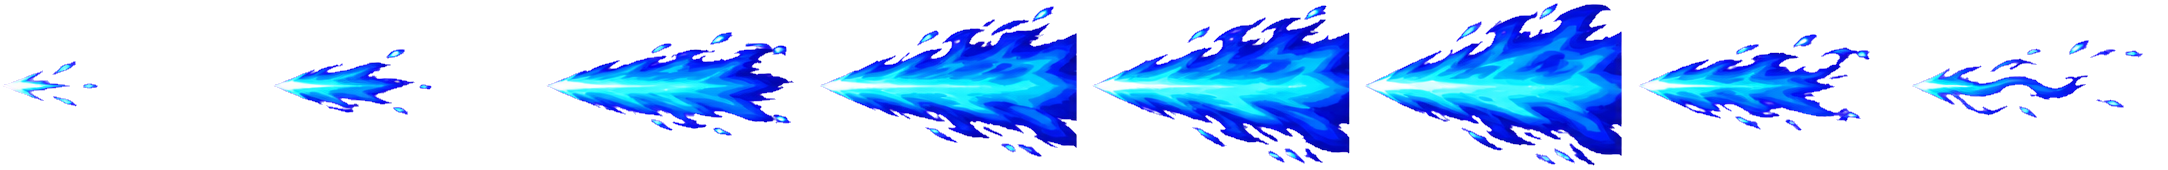
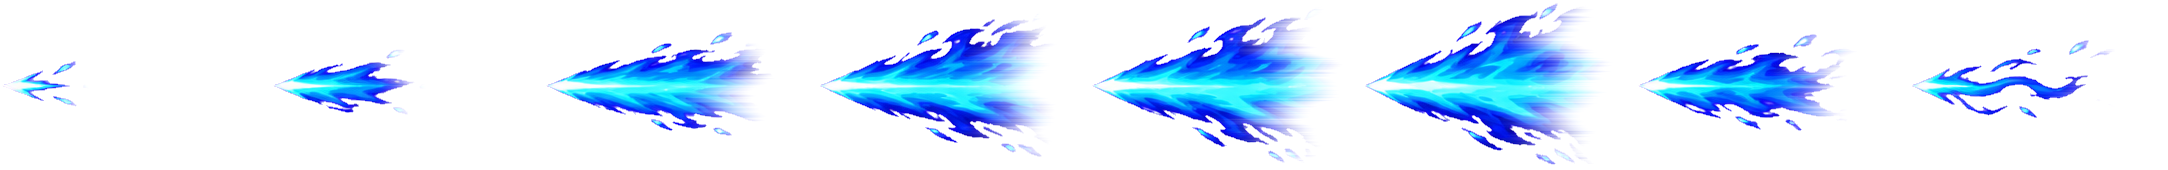
thap: Abyss cầu nước bay LÊN trời rồi mưa khắp đường; lửa Wyrm Engine hết cụt
- Leviathan TIDAL BREATH: bỏ cột tia dọc; 5 cầu nước bắn từ ngọc ụ vọt lên quá mép trên (vòng nhẹ, nhỏ + mờ dần),
  rồi mưa giáo nước rơi tới các điểm đều dọc cả đường, chạm đúng nhịp HU.thoThuy (luật, nhịp trừ máu, VXD giữ nguyên)
- Chữ kỹ năng bỏ "ice dragon / rồng băng" (text.js, skills5.js mo, skilldemo.js, vi.json → ngonngu-vi.js)
- Wyrm Engine: ảnh ChatGPT khung 3–5 chạm mép ô → lửa bị chặt; thap-cat-wyrm2.py làm mờ mũi lửa răng cưa,
  đo lại VUNG_ANH.wyrm2X/Y (mũi = tầm), sinh lại 3 dạng
- GIF TRUOC-SAU-abyss2.gif, TRUOC-SAU-wyrm2.gif; ảnh trận 390x844 / 844x390

Claude-Session: https://claude.ai/code/session_01KQA7LFBkcdkiPiLcwYs7V2

diff --git a/thap/js/ngonngu-vi.js b/thap/js/ngonngu-vi.js
@@ -913,16 +913,16 @@ const VI_MAU = {
 "ABOUT TO OPEN": "SẮP MỞ",
 "ABSOLUTE ZERO": "ĐỘ KHÔNG TUYỆT ĐỐI",
 "ABYSS # · +#% damage": "ABYSS # · +#% sát thương",
-"ABYSS # · +#% damage · devours a small enemy every #s (# px) · bubble splash # px · TAP when full: TIDAL BREATH ×# — an ice dragon breathes along the path": "ABYSS # · +#% sát thương · nuốt 1 quái nhỏ mỗi #s (# px) · bong bóng nổ lan # px · CHẠM khi đầy: HƠI THỞ THUỶ TRIỀU ×# — rồng băng phun dọc đường đi",
+"ABYSS # · +#% damage · devours a small enemy every #s (# px) · bubble splash # px · TAP when full: TIDAL BREATH ×# — water orbs shoot up from the turret and rain down along the whole path": "ABYSS # · +#% sát thương · nuốt 1 quái nhỏ mỗi #s (# px) · bong bóng nổ lan # px · CHẠM khi đầy: HƠI THỞ THUỶ TRIỀU ×# — cầu nước bắn vọt lên trời từ ụ rồi đổ mưa xuống khắp đường đi",
 "ABYSS # · +#% damage · devours a small enemy every #s (# px) · bubble splash # px · TIDAL BREATH unlocks at #★": "ABYSS # · +#% sát thương · nuốt 1 quái nhỏ mỗi #s (# px) · bong bóng nổ lan # px · HƠI THỞ THUỶ TRIỀU mở ở #★",
-"ABYSS # · +#% damage · devours a small enemy every #s (# px, big ones ×#) · bubble splash # px · TAP when full: TIDAL BREATH ×# — an ice dragon breathes along the path": "ABYSS # · +#% sát thương · nuốt 1 quái nhỏ mỗi #s (# px, quái to ×#) · bong bóng nổ lan # px · CHẠM khi đầy: HƠI THỞ THUỶ TRIỀU ×# — rồng băng phun dọc đường đi",
-"ABYSS # · +#% damage · devours a small enemy every #s (# px, big ones ×#, flyers too) · bubble splash # px · TAP when full: TIDAL BREATH ×# — an ice dragon breathes along the path": "ABYSS # · +#% sát thương · nuốt 1 quái nhỏ mỗi #s (# px, quái to ×#, cả quái bay) · bong bóng nổ lan # px · CHẠM khi đầy: HƠI THỞ THUỶ TRIỀU ×# — rồng băng phun dọc đường đi",
+"ABYSS # · +#% damage · devours a small enemy every #s (# px, big ones ×#) · bubble splash # px · TAP when full: TIDAL BREATH ×# — water orbs shoot up from the turret and rain down along the whole path": "ABYSS # · +#% sát thương · nuốt 1 quái nhỏ mỗi #s (# px, quái to ×#) · bong bóng nổ lan # px · CHẠM khi đầy: HƠI THỞ THUỶ TRIỀU ×# — cầu nước bắn vọt lên trời từ ụ rồi đổ mưa xuống khắp đường đi",
+"ABYSS # · +#% damage · devours a small enemy every #s (# px, big ones ×#, flyers too) · bubble splash # px · TAP when full: TIDAL BREATH ×# — water orbs shoot up from the turret and rain down along the whole path": "ABYSS # · +#% sát thương · nuốt 1 quái nhỏ mỗi #s (# px, quái to ×#, cả quái bay) · bong bóng nổ lan # px · CHẠM khi đầy: HƠI THỞ THUỶ TRIỀU ×# — cầu nước bắn vọt lên trời từ ụ rồi đổ mưa xuống khắp đường đi",
 "ABYSS # · +#% damage · devours enemies inside the cyan ring — place it next to the path to eat more": "ABYSS # · +#% sát thương · Nuốt quái trong vòng xanh — đặt sát đường để nuốt nhiều hơn",
 "ABYSS #/# · +#% damage": "ABYSS #/# · +#% sát thương",
-"ABYSS #/# · +#% damage · devours a small enemy every #s (# px) · bubble splash # px · TAP when full: TIDAL BREATH ×# — an ice dragon breathes along the path": "ABYSS #/# · +#% sát thương · nuốt 1 quái nhỏ mỗi #s (# px) · bong bóng nổ lan # px · CHẠM khi đầy: HƠI THỞ THUỶ TRIỀU ×# — rồng băng phun dọc đường đi",
+"ABYSS #/# · +#% damage · devours a small enemy every #s (# px) · bubble splash # px · TAP when full: TIDAL BREATH ×# — water orbs shoot up from the turret and rain down along the whole path": "ABYSS #/# · +#% sát thương · nuốt 1 quái nhỏ mỗi #s (# px) · bong bóng nổ lan # px · CHẠM khi đầy: HƠI THỞ THUỶ TRIỀU ×# — cầu nước bắn vọt lên trời từ ụ rồi đổ mưa xuống khắp đường đi",
 "ABYSS #/# · +#% damage · devours a small enemy every #s (# px) · bubble splash # px · TIDAL BREATH unlocks at #★": "ABYSS #/# · +#% sát thương · nuốt 1 quái nhỏ mỗi #s (# px) · bong bóng nổ lan # px · HƠI THỞ THUỶ TRIỀU mở ở #★",
-"ABYSS #/# · +#% damage · devours a small enemy every #s (# px, big ones ×#) · bubble splash # px · TAP when full: TIDAL BREATH ×# — an ice dragon breathes along the path": "ABYSS #/# · +#% sát thương · nuốt 1 quái nhỏ mỗi #s (# px, quái to ×#) · bong bóng nổ lan # px · CHẠM khi đầy: HƠI THỞ THUỶ TRIỀU ×# — rồng băng phun dọc đường đi",
-"ABYSS #/# · +#% damage · devours a small enemy every #s (# px, big ones ×#, flyers too) · bubble splash # px · TAP when full: TIDAL BREATH ×# — an ice dragon breathes along the path": "ABYSS #/# · +#% sát thương · nuốt 1 quái nhỏ mỗi #s (# px, quái to ×#, cả quái bay) · bong bóng nổ lan # px · CHẠM khi đầy: HƠI THỞ THUỶ TRIỀU ×# — rồng băng phun dọc đường đi",
+"ABYSS #/# · +#% damage · devours a small enemy every #s (# px, big ones ×#) · bubble splash # px · TAP when full: TIDAL BREATH ×# — water orbs shoot up from the turret and rain down along the whole path": "ABYSS #/# · +#% sát thương · nuốt 1 quái nhỏ mỗi #s (# px, quái to ×#) · bong bóng nổ lan # px · CHẠM khi đầy: HƠI THỞ THUỶ TRIỀU ×# — cầu nước bắn vọt lên trời từ ụ rồi đổ mưa xuống khắp đường đi",
+"ABYSS #/# · +#% damage · devours a small enemy every #s (# px, big ones ×#, flyers too) · bubble splash # px · TAP when full: TIDAL BREATH ×# — water orbs shoot up from the turret and rain down along the whole path": "ABYSS #/# · +#% sát thương · nuốt 1 quái nhỏ mỗi #s (# px, quái to ×#, cả quái bay) · bong bóng nổ lan # px · CHẠM khi đầy: HƠI THỞ THUỶ TRIỀU ×# — cầu nước bắn vọt lên trời từ ụ rồi đổ mưa xuống khắp đường đi",
 "ABYSS #/# · +#% damage · devours enemies inside the cyan ring — place it next to the path to eat more": "ABYSS #/# · +#% sát thương · Nuốt quái trong vòng xanh — đặt sát đường để nuốt nhiều hơn",
 "ABYSS LORD": "CHÚA VỰC SÂU",
 "ABYSS LORD: big double-ring bubbles; devours flyers": "CHÚA VỰC SÂU: bong bóng vòng đôi lớn; nuốt cả quái bay",
@@ -954,13 +954,13 @@ const VI_MAU = {
 "Abyss # (+#% dmg) · devours a small enemy every #s (# px) · bubble splash # px · tidal breath unlocks at #★": "Abyss # (+#% ST) · nuốt 1 quái nhỏ mỗi #s (# px) · bong bóng nổ lan # px · hơi thở thuỷ triều mở ở #★",
 "Abyss # (+#% dmg) · devours a small enemy every #s (# px, big ones ×#) · bubble splash # px · tap when full: tidal breath ×# along the path": "Abyss # (+#% ST) · nuốt 1 quái nhỏ mỗi #s (# px, quái to ×#) · bong bóng nổ lan # px · chạm khi đầy: hơi thở thuỷ triều ×# dọc đường đi",
 "Abyss # (+#% dmg) · devours a small enemy every #s (# px, big ones ×#, flyers too) · bubble splash # px · tap when full: tidal breath ×# along the path": "Abyss # (+#% ST) · nuốt 1 quái nhỏ mỗi #s (# px, quái to ×#, cả quái bay) · bong bóng nổ lan # px · chạm khi đầy: hơi thở thuỷ triều ×# dọc đường đi",
-"Abyss # · +#% damage · devours a small enemy every #s (# px) · bubble splash # px · tap when full: tidal breath ×# — an ice dragon breathes along the path": "Abyss # · +#% sát thương · nuốt 1 quái nhỏ mỗi #s (# px) · bong bóng nổ lan # px · chạm khi đầy: hơi thở thuỷ triều ×# — rồng băng phun dọc đường đi",
+"Abyss # · +#% damage · devours a small enemy every #s (# px) · bubble splash # px · tap when full: tidal breath ×# — water orbs shoot up from the turret and rain down along the whole path": "Abyss # · +#% sát thương · nuốt 1 quái nhỏ mỗi #s (# px) · bong bóng nổ lan # px · chạm khi đầy: hơi thở thuỷ triều ×# — cầu nước bắn vọt lên trời từ ụ rồi đổ mưa xuống khắp đường đi",
 "Abyss # · +#% damage · devours a small enemy every #s (# px) · bubble splash # px · tidal breath unlocks at #": "Abyss # · +#% sát thương · nuốt 1 quái nhỏ mỗi #s (# px) · bong bóng nổ lan # px · hơi thở thuỷ triều mở ở #★",
 "Abyss # · +#% damage · devours a small enemy every #s (# px) · bubble splash # px · tidal breath unlocks at #★": "Abyss # · +#% sát thương · nuốt 1 quái nhỏ mỗi #s (# px) · bong bóng nổ lan # px · hơi thở thuỷ triều mở ở #★",
-"Abyss # · +#% damage · devours a small enemy every #s (# px, big ones ×#) · bubble splash # px · tap when full: tidal breath ×# — an ice dragon breathes along the path": "Abyss # · +#% sát thương · nuốt 1 quái nhỏ mỗi #s (# px, quái to ×#) · bong bóng nổ lan # px · chạm khi đầy: hơi thở thuỷ triều ×# — rồng băng phun dọc đường đi",
+"Abyss # · +#% damage · devours a small enemy every #s (# px, big ones ×#) · bubble splash # px · tap when full: tidal breath ×# — water orbs shoot up from the turret and rain down along the whole path": "Abyss # · +#% sát thương · nuốt 1 quái nhỏ mỗi #s (# px, quái to ×#) · bong bóng nổ lan # px · chạm khi đầy: hơi thở thuỷ triều ×# — cầu nước bắn vọt lên trời từ ụ rồi đổ mưa xuống khắp đường đi",
 "Abyss # · +#% damage · devours a small enemy every #s (# px, big ones ×#) · bubble splash # px · tidal breath unlocks at #": "Abyss # · +#% sát thương · nuốt 1 quái nhỏ mỗi #s (# px, quái to ×#) · bong bóng nổ lan # px · hơi thở thuỷ triều mở ở #★",
 "Abyss # · +#% damage · devours a small enemy every #s (# px, big ones ×#) · bubble splash # px · tidal breath unlocks at #★": "Abyss # · +#% sát thương · nuốt 1 quái nhỏ mỗi #s (# px, quái to ×#) · bong bóng nổ lan # px · hơi thở thuỷ triều mở ở #★",
-"Abyss # · +#% damage · devours a small enemy every #s (# px, big ones ×#, flyers too) · bubble splash # px · tap when full: tidal breath ×# — an ice dragon breathes along the path": "Abyss # · +#% sát thương · nuốt 1 quái nhỏ mỗi #s (# px, quái to ×#, cả quái bay) · bong bóng nổ lan # px · chạm khi đầy: hơi thở thuỷ triều ×# — rồng băng phun dọc đường đi",
+"Abyss # · +#% damage · devours a small enemy every #s (# px, big ones ×#, flyers too) · bubble splash # px · tap when full: tidal breath ×# — water orbs shoot up from the turret and rain down along the whole path": "Abyss # · +#% sát thương · nuốt 1 quái nhỏ mỗi #s (# px, quái to ×#, cả quái bay) · bong bóng nổ lan # px · chạm khi đầy: hơi thở thuỷ triều ×# — cầu nước bắn vọt lên trời từ ụ rồi đổ mưa xuống khắp đường đi",
 "Abyss # · +#% damage · devours a small enemy every #s (# px, big ones ×#, flyers too) · bubble splash # px · tidal breath unlocks at #": "Abyss # · +#% sát thương · nuốt 1 quái nhỏ mỗi #s (# px, quái to ×#, cả quái bay) · bong bóng nổ lan # px · hơi thở thuỷ triều mở ở #★",
 "Abyss # · +#% damage · devours a small enemy every #s (# px, big ones ×#, flyers too) · bubble splash # px · tidal breath unlocks at #★": "Abyss # · +#% sát thương · nuốt 1 quái nhỏ mỗi #s (# px, quái to ×#, cả quái bay) · bong bóng nổ lan # px · hơi thở thuỷ triều mở ở #★",
 "Abyss #/# (+#% dmg)": "Abyss #/# (+#% ST)",
@@ -968,13 +968,13 @@ const VI_MAU = {
 "Abyss #/# (+#% dmg) · devours a small enemy every #s (# px) · bubble splash # px · tidal breath unlocks at #★": "Abyss #/# (+#% ST) · nuốt 1 quái nhỏ mỗi #s (# px) · bong bóng nổ lan # px · hơi thở thuỷ triều mở ở #★",
 "Abyss #/# (+#% dmg) · devours a small enemy every #s (# px, big ones ×#) · bubble splash # px · tap when full: tidal breath ×# along the path": "Abyss #/# (+#% ST) · nuốt 1 quái nhỏ mỗi #s (# px, quái to ×#) · bong bóng nổ lan # px · chạm khi đầy: hơi thở thuỷ triều ×# dọc đường đi",
 "Abyss #/# (+#% dmg) · devours a small enemy every #s (# px, big ones ×#, flyers too) · bubble splash # px · tap when full: tidal breath ×# along the path": "Abyss #/# (+#% ST) · nuốt 1 quái nhỏ mỗi #s (# px, quái to ×#, cả quái bay) · bong bóng nổ lan # px · chạm khi đầy: hơi thở thuỷ triều ×# dọc đường đi",
-"Abyss #/# · +#% damage · devours a small enemy every #s (# px) · bubble splash # px · tap when full: tidal breath ×# — an ice dragon breathes along the path": "Abyss #/# · +#% sát thương · nuốt 1 quái nhỏ mỗi #s (# px) · bong bóng nổ lan # px · chạm khi đầy: hơi thở thuỷ triều ×# — rồng băng phun dọc đường đi",
+"Abyss #/# · +#% damage · devours a small enemy every #s (# px) · bubble splash # px · tap when full: tidal breath ×# — water orbs shoot up from the turret and rain down along the whole path": "Abyss #/# · +#% sát thương · nuốt 1 quái nhỏ mỗi #s (# px) · bong bóng nổ lan # px · chạm khi đầy: hơi thở thuỷ triều ×# — cầu nước bắn vọt lên trời từ ụ rồi đổ mưa xuống khắp đường đi",
 "Abyss #/# · +#% damage · devours a small enemy every #s (# px) · bubble splash # px · tidal breath unlocks at #": "Abyss #/# · +#% sát thương · nuốt 1 quái nhỏ mỗi #s (# px) · bong bóng nổ lan # px · hơi thở thuỷ triều mở ở #★",
 "Abyss #/# · +#% damage · devours a small enemy every #s (# px) · bubble splash # px · tidal breath unlocks at #★": "Abyss #/# · +#% sát thương · nuốt 1 quái nhỏ mỗi #s (# px) · bong bóng nổ lan # px · hơi thở thuỷ triều mở ở #★",
-"Abyss #/# · +#% damage · devours a small enemy every #s (# px, big ones ×#) · bubble splash # px · tap when full: tidal breath ×# — an ice dragon breathes along the path": "Abyss #/# · +#% sát thương · nuốt 1 quái nhỏ mỗi #s (# px, quái to ×#) · bong bóng nổ lan # px · chạm khi đầy: hơi thở thuỷ triều ×# — rồng băng phun dọc đường đi",
+"Abyss #/# · +#% damage · devours a small enemy every #s (# px, big ones ×#) · bubble splash # px · tap when full: tidal breath ×# — water orbs shoot up from the turret and rain down along the whole path": "Abyss #/# · +#% sát thương · nuốt 1 quái nhỏ mỗi #s (# px, quái to ×#) · bong bóng nổ lan # px · chạm khi đầy: hơi thở thuỷ triều ×# — cầu nước bắn vọt lên trời từ ụ rồi đổ mưa xuống khắp đường đi",
 "Abyss #/# · +#% damage · devours a small enemy every #s (# px, big ones ×#) · bubble splash # px · tidal breath unlocks at #": "Abyss #/# · +#% sát thương · nuốt 1 quái nhỏ mỗi #s (# px, quái to ×#) · bong bóng nổ lan # px · hơi thở thuỷ triều mở ở #★",
 "Abyss #/# · +#% damage · devours a small enemy every #s (# px, big ones ×#) · bubble splash # px · tidal breath unlocks at #★": "Abyss #/# · +#% sát thương · nuốt 1 quái nhỏ mỗi #s (# px, quái to ×#) · bong bóng nổ lan # px · hơi thở thuỷ triều mở ở #★",
-"Abyss #/# · +#% damage · devours a small enemy every #s (# px, big ones ×#, flyers too) · bubble splash # px · tap when full: tidal breath ×# — an ice dragon breathes along the path": "Abyss #/# · +#% sát thương · nuốt 1 quái nhỏ mỗi #s (# px, quái to ×#, cả quái bay) · bong bóng nổ lan # px · chạm khi đầy: hơi thở thuỷ triều ×# — rồng băng phun dọc đường đi",
+"Abyss #/# · +#% damage · devours a small enemy every #s (# px, big ones ×#, flyers too) · bubble splash # px · tap when full: tidal breath ×# — water orbs shoot up from the turret and rain down along the whole path": "Abyss #/# · +#% sát thương · nuốt 1 quái nhỏ mỗi #s (# px, quái to ×#, cả quái bay) · bong bóng nổ lan # px · chạm khi đầy: hơi thở thuỷ triều ×# — cầu nước bắn vọt lên trời từ ụ rồi đổ mưa xuống khắp đường đi",
 "Abyss #/# · +#% damage · devours a small enemy every #s (# px, big ones ×#, flyers too) · bubble splash # px · tidal breath unlocks at #": "Abyss #/# · +#% sát thương · nuốt 1 quái nhỏ mỗi #s (# px, quái to ×#, cả quái bay) · bong bóng nổ lan # px · hơi thở thuỷ triều mở ở #★",
 "Abyss #/# · +#% damage · devours a small enemy every #s (# px, big ones ×#, flyers too) · bubble splash # px · tidal breath unlocks at #★": "Abyss #/# · +#% sát thương · nuốt 1 quái nhỏ mỗi #s (# px, quái to ×#, cả quái bay) · bong bóng nổ lan # px · hơi thở thuỷ triều mở ở #★",
 "Ace shots pierce # enemy": "Phát Ace xuyên # quái",
@@ -1487,12 +1487,12 @@ const VI_MAU = {
 "Details ›": "Chi tiết ›",
 "Devours a small enemy": "Nuốt một quái nhỏ",
 "Devours big enemies (×# stacks) — starts at #★": "Nuốt quái to (×# cộng dồn) — từ #★",
-"Devours enemies for ABYSS points (shared by all your Leviathans) — whirlpool tag under the cell, +#% damage each (max #). Active (#★+): TIDAL BREATH — an ice dragon head drops from the sky and breathes along the path": "Nuốt quái để tích điểm ABYSS (mọi Thuỷ Quái của bạn dùng chung) — tấm xoáy nước ở đáy ô, mỗi điểm +#% sát thương (tối đa #). Chủ động (#★+): HƠI THỞ THUỶ TRIỀU — đầu rồng băng từ trên trời rơi xuống, phun băng dọc đường đi",
-"Devours enemies for ABYSS points (shared by all your Leviathans) — whirlpool tag under the cell, +#% damage each (no cap). Active (#★+): TIDAL BREATH — an ice dragon head drops from the sky and breathes along the path": "Nuốt quái để tích điểm ABYSS (mọi Thuỷ Quái của bạn dùng chung) — tấm xoáy nước ở đáy ô, mỗi điểm +#% sát thương (không trần). Chủ động (#★+): HƠI THỞ THUỶ TRIỀU — đầu rồng băng từ trên trời rơi xuống, phun băng dọc đường đi",
-"Devours enemies for ABYSS points — whirlpool tag under the cell, +#% damage each (max #). Active (#★+): TIDAL BREATH — an ice dragon head drops from the sky and breathes along the path": "Nuốt quái để tích điểm ABYSS — tấm xoáy nước ở đáy ô, mỗi điểm +#% sát thương (tối đa #). Chủ động (#★+): HƠI THỞ THUỶ TRIỀU — đầu rồng băng từ trên trời rơi xuống, phun băng dọc đường đi",
-"Devours enemies for ABYSS points — whirlpool tag under the cell, +#% damage each (no cap). Active (#★+): TIDAL BREATH — an ice dragon head drops from the sky and breathes along the path": "Nuốt quái để tích điểm ABYSS — tấm xoáy nước ở đáy ô, mỗi điểm +#% sát thương (không trần). Chủ động (#★+): HƠI THỞ THUỶ TRIỀU — đầu rồng băng từ trên trời rơi xuống, phun băng dọc đường đi",
-"Devours enemies for abyss points (shared by all your Leviathans) — whirlpool tag under the cell, +#% damage each (max #). Active (#★+): tidal breath — an ice dragon head drops from the sky and breathes along the path.": "Nuốt quái để tích điểm ABYSS (mọi Thuỷ Quái của bạn dùng chung) — tấm xoáy nước ở đáy ô, mỗi điểm +#% sát thương (tối đa #). Chủ động (#★+): hơi thở thuỷ triều — đầu rồng băng từ trên trời rơi xuống, phun băng dọc đường đi.",
-"Devours enemies for abyss points (shared by all your Leviathans) — whirlpool tag under the cell, +#% damage each (no cap). Active (#★+): tidal breath — an ice dragon head drops from the sky and breathes along the path.": "Nuốt quái để tích điểm ABYSS (mọi Thuỷ Quái của bạn dùng chung) — tấm xoáy nước ở đáy ô, mỗi điểm +#% sát thương (không trần). Chủ động (#★+): hơi thở thuỷ triều — đầu rồng băng từ trên trời rơi xuống, phun băng dọc đường đi.",
+"Devours enemies for ABYSS points (shared by all your Leviathans) — whirlpool tag under the cell, +#% damage each (max #). Active (#★+): TIDAL BREATH — water orbs shoot up from the turret and rain down along the whole path": "Nuốt quái để tích điểm ABYSS (mọi Thuỷ Quái của bạn dùng chung) — tấm xoáy nước ở đáy ô, mỗi điểm +#% sát thương (tối đa #). Chủ động (#★+): HƠI THỞ THUỶ TRIỀU — cầu nước bắn vọt lên trời từ ụ rồi đổ mưa xuống khắp đường đi",
+"Devours enemies for ABYSS points (shared by all your Leviathans) — whirlpool tag under the cell, +#% damage each (no cap). Active (#★+): TIDAL BREATH — water orbs shoot up from the turret and rain down along the whole path": "Nuốt quái để tích điểm ABYSS (mọi Thuỷ Quái của bạn dùng chung) — tấm xoáy nước ở đáy ô, mỗi điểm +#% sát thương (không trần). Chủ động (#★+): HƠI THỞ THUỶ TRIỀU — cầu nước bắn vọt lên trời từ ụ rồi đổ mưa xuống khắp đường đi",
+"Devours enemies for ABYSS points — whirlpool tag under the cell, +#% damage each (max #). Active (#★+): TIDAL BREATH — water orbs shoot up from the turret and rain down along the whole path": "Nuốt quái để tích điểm ABYSS — tấm xoáy nước ở đáy ô, mỗi điểm +#% sát thương (tối đa #). Chủ động (#★+): HƠI THỞ THUỶ TRIỀU — cầu nước bắn vọt lên trời từ ụ rồi đổ mưa xuống khắp đường đi",
+"Devours enemies for ABYSS points — whirlpool tag under the cell, +#% damage each (no cap). Active (#★+): TIDAL BREATH — water orbs shoot up from the turret and rain down along the whole path": "Nuốt quái để tích điểm ABYSS — tấm xoáy nước ở đáy ô, mỗi điểm +#% sát thương (không trần). Chủ động (#★+): HƠI THỞ THUỶ TRIỀU — cầu nước bắn vọt lên trời từ ụ rồi đổ mưa xuống khắp đường đi",
+"Devours enemies for abyss points (shared by all your Leviathans) — whirlpool tag under the cell, +#% damage each (max #). Active (#★+): tidal breath — water orbs shoot up from the turret and rain down along the whole path.": "Nuốt quái để tích điểm ABYSS (mọi Thuỷ Quái của bạn dùng chung) — tấm xoáy nước ở đáy ô, mỗi điểm +#% sát thương (tối đa #). Chủ động (#★+): hơi thở thuỷ triều — cầu nước bắn vọt lên trời từ ụ rồi đổ mưa xuống khắp đường đi.",
+"Devours enemies for abyss points (shared by all your Leviathans) — whirlpool tag under the cell, +#% damage each (no cap). Active (#★+): tidal breath — water orbs shoot up from the turret and rain down along the whole path.": "Nuốt quái để tích điểm ABYSS (mọi Thuỷ Quái của bạn dùng chung) — tấm xoáy nước ở đáy ô, mỗi điểm +#% sát thương (không trần). Chủ động (#★+): hơi thở thuỷ triều — cầu nước bắn vọt lên trời từ ụ rồi đổ mưa xuống khắp đường đi.",
 "Devours enemies for damage stacks (max #). Active (#★+): TIDAL BREATH sweeps the path": "Nuốt quái để cộng dồn ST (tối đa #). Chủ động (#★+): HƠI THỞ THUỶ TRIỀU quét đường đi",
 "Devours enemies for damage stacks (max #). Active (#★+): tidal breath sweeps the path.": "Nuốt quái để cộng dồn ST (tối đa #). Chủ động (#★+): hơi thở thuỷ triều quét đường đi.",
 "Devours enemies for damage stacks (no cap). Active (#★+): TIDAL BREATH sweeps the path": "Nuốt quái để cộng dồn ST (không trần). Chủ động (#★+): HƠI THỞ THUỶ TRIỀU quét đường đi",
@@ -2983,13 +2983,13 @@ const VI_MAU = {
 "Tap your COMMANDER": "Chạm CHỈ HUY của bạn",
 "Tap ‹ again to leave the room.": "Chạm ‹ lần nữa để rời phòng.",
 "Tap: dragon dives the path": "Chạm: rồng bổ nhào dọc đường đi",
-"Tap: ice dragon breath": "Chạm: rồng băng phun",
 "Tap: rewind pushes enemies back": "Chạm: tua ngược đẩy lùi quái",
 "Tap: summons new turrets": "Chạm: triệu hồi ụ mới",
 "Tap: team barrier #s": "Chạm: rào chắn cả đội #s",
 "Tap: team barrier, boss skill weakened": "Chạm: rào chắn cả đội, kỹ năng trùm suy yếu",
 "Tap: the swarm dives in": "Chạm: bầy drone lao vào",
 "Tap: tidal breath sweeps": "Chạm: hơi thở thủy triều quét qua",
+"Tap: water orbs rain on the path": "Chạm: mưa cầu nước xuống đường",
 "Target": "Mục tiêu",
 "Target +#★, keeps its type": "Mục tiêu +#★, giữ nguyên loại",
 "Target gets +#★, keeps type": "Mục tiêu +#★, giữ nguyên loại",
@@ -3195,7 +3195,6 @@ const VI_MAU = {
 "aims toward its arrow, shells pierce the line, blast # px": "ngắm theo mũi tên, đạn xuyên cả đường thẳng, nổ lan # px",
 "also on stone (stays stone)": "cả lên đá (vẫn là đá)",
 "also saves # leak)": "còn chặn # quái lọt)",
-"an ice dragon breathes along the path": "một con rồng băng phun hơi thở dọc đường đi",
 "arrow + number: same-arrow merges add up": "mũi tên + số: ghép cùng hướng cộng dồn",
 "at #: # homing foxfires ×#": "khi đủ #: # hồ hỏa đuổi ×#",
 "auto-fires if left full)": "tự kích nếu để đầy)",
@@ -3520,6 +3519,7 @@ const VI_MAU = {
 "very fast stream": "dòng đạn rất nhanh",
 "wall every #s": "tường mỗi #s",
 "walls block the path and explode; merge raises a GOLDEN wall": "tường chắn đường đi rồi nổ; ghép dựng tường VÀNG",
+"water orbs shoot up from the turret and rain down along the whole path": "cầu nước bắn vọt lên trời từ ụ rồi đổ mưa xuống khắp đường đi",
 "while it has drones: N/E/S/W neighbours +#% fire rate": "khi còn drone: ụ kề trên/dưới/trái/phải +#% tốc bắn",
 "with lives left. Your wave and best record are saved.": "khi còn mạng. Đợt và kỷ lục của bạn đã được lưu.",
 "works on stone/frozen turrets too": "dùng được cả với ụ đá/bị đóng băng",

diff --git a/thap/js/sigfx.js b/thap/js/sigfx.js
@@ -23,7 +23,7 @@ const SIG = {
       const ma = this.MA[id]; if (!ma || this.daNap.has(id)) continue;
       this.daNap.add(id);
       for (const k in SIG_META) if (k.startsWith('sig_' + ma + '_')) REN.img(k);
-      if (id === 'leviathan') for (const k of ['fx_leviathan_tia', 'fx_leviathan_dan', 'fx_leviathan_trung']) REN.img(k); // TIDAL BREATH mưa nước (bỏ đầu rồng lev_rong)
+      if (id === 'leviathan') for (const k of ['fx_leviathan_dan', 'fx_leviathan_trung']) REN.img(k); // TIDAL BREATH: cầu nước bay lên + mưa nước (bỏ đầu rồng lev_rong, bỏ cột tia)
       if (id === 'marionette') for (const k of this.ROI) REN.img(k);
       if (id === 'ronglua') for (const k of ['wyrm_rong', 'fx_wyrm_lua2', 'fx_wyrm_lua2_2', 'fx_wyrm_lua2_3', 'fx_wyrm_lua', 'fx_ronglua_trung']) REN.img(k);
     }
@@ -112,7 +112,7 @@ if (typeof SIG_META !== 'undefined') Object.assign(SIG_META, { fx_leviathan_tia:
 if (typeof SIG_META !== 'undefined') SIG_META.fx_wyrm_lua = [16, 300, 150];
 // luồng lửa Wyrm MỚI (07/11 19:05): 8 khung ChatGPT, nòng ở mép trái giữa khung (tools/thap-cat-wyrm2.py in số đo dưới)
 if (typeof SIG_META !== 'undefined') Object.assign(SIG_META, { fx_wyrm_lua2: [8, 271, 170], fx_wyrm_lua2_2: [8, 271, 170], fx_wyrm_lua2_3: [8, 271, 170] });
-if (typeof VUNG_ANH !== 'undefined') Object.assign(VUNG_ANH, { wyrm2X: 0.98, wyrm2Y: 0.755 }); // dải 16 khung luồng lửa Wyrm (raw_fx_wyrm_lua.png, 4×4 → 1 hàng; tools/thap-cat-wyrm.py)
+if (typeof VUNG_ANH !== 'undefined') Object.assign(VUNG_ANH, { wyrm2X: 0.801, wyrm2Y: 0.645 }); // dải 16 khung luồng lửa Wyrm (raw_fx_wyrm_lua.png, 4×4 → 1 hàng; tools/thap-cat-wyrm.py)
 SIG.PHAT = {
   roi(o) { // Marionette gắn dây rối
     const phu = this.ds.some(m => m.k === 'roi' && m.o.T === o.T && m.t < 1); // 7★ con rối thứ 2: tay nhỏ hơn
@@ -359,20 +359,24 @@ SIG.K = {
       if (m.tHet != null && m.x != null) { const fc = this.f(m.t - m.tHet, 0, 0.5, 5); if (fc >= 0) this.k(ctx, 'sig_m09_crest', fc, m.x, m.y, 80, { a: this.mo(m.t - m.tHet, 0, 0.5, 0.04, 0.15) }); }
     },
   },
-  // M07 LEVIATHAN — TIDAL BREATH (user 07/11 19:05: bỏ đầu rồng): cột nước + quả cầu nước bắn THẲNG LÊN TRỜI từ ngọc ụ →
-  //   mưa giáo nước rơi xuống ĐỀU dọc CẢ đường (mỗi ~24 px một giọt, nằm đúng trên đường) → mỗi giọt chạm đất ĐÚNG nhịp HU.thoThuy
-  //   trừ máu chỗ đó: nhịp 0.1 s, quái cách đầu sóng ≤ 70 px (+0.3×cỡ) bị trúng → giọt ở s chạm đất ở nhịp đầu tiên có đầu sóng ≤ s + 85.
-  //   Ảnh ChatGPT sẵn có: fx_leviathan_tia (cột nước), fx_leviathan_dan (cầu/giáo nước), fx_leviathan_trung (vương miện bắn toé).
-  //   Code chỉ đặt vị trí / xoay / phóng / mờ. Không đổi luật: thời điểm + vùng trúng vẫn do HU.thoThuy (skills5.js).
+  // M07 LEVIATHAN — TIDAL BREATH (user 07/11 20:11: "trông như tia bắn TỪ TRÊN XUỐNG"; muốn: từ ụ bắn giọt/cầu nước LÊN trời — thấy bay vọt
+  //   lên khỏi ụ — rồi rơi xuống khắp đường). KHÔNG còn cột tia dọc.
+  //   pha 1 (0 → ~0.6 s): 5 cầu nước (fx_leviathan_dan, đầu cầu hướng theo đà bay) lần lượt bắn từ ngọc ụ, bay vòng nhẹ ra 2 bên, lên
+  //     thẳng khỏi mép trên; càng cao càng nhỏ + mờ; loé toé nhỏ ở ngọc lúc bắn.
+  //   pha 2: mưa giáo nước rơi từ trên xuống các điểm ĐỀU dọc CẢ đường (~24 px/giọt, nằm đúng trên đường); thời gian rơi + độ cao + cỡ
+  //     lệch nhau cố định theo giọt (đọc thành mưa), mỗi giọt chạm đất ĐÚNG nhịp HU.thoThuy trừ máu chỗ đó → vương miện toé (fx_leviathan_trung).
+  //     Nhịp 0.1 s, quái cách đầu sóng ≤ 70 px (+0.3×cỡ) bị trúng → giọt ở s chạm đất ở nhịp đầu tiên có đầu sóng ≤ s + 85.
+  //     Đầu sóng xuất phát từ LÕI ngay o.t ≈ 0 → các giọt sát lõi buộc phải chạm sớm (cùng lúc cầu đang bay lên); phần còn lại của đường
+  //     rơi sau nhịp nghỉ. Code chỉ đặt vị trí / xoay / phóng / mờ. Không đổi luật: thời điểm + vùng trúng vẫn do HU.thoThuy (skills5.js).
   tho: {
     cap(m) {
       const o = m.o; if (!m.p) m.p = o.p;
       if (m.tHet == null) { if (this.conHu(o)) m.ot = o.t; else m.tHet = m.t; }
-      return m.tHet != null && m.t - m.tHet > 0.5;
+      return m.tHet != null && m.t - m.tHet > 0.6;
     },
     ve(ctx, m) {
       const o = m.o, P = m.p, c = this.o(m.T); if (!P || m.ot == null) return;
-      if (m.gx == null && c) { m.gx = c.x; m.gy = c.y - 4; }
+      if (m.gx == null && c) { m.gx = c.x; m.gy = c.y - 6; }
       if (m.gx == null) return;
       const song = o.song, tg = m.tHet == null ? m.ot : m.ot + (m.t - m.tHet), gon = typeof CG !== 'undefined' && CG.gon();
       if (!m.giot) { // giọt đều dọc đường, toạ độ = điểm trên đường; tl = lúc chạm đất = nhịp trừ máu của quái đứng ở đó
@@ -381,25 +385,30 @@ SIG.K = {
           const s = P.len - (k + 0.5) * st, [x, y, g] = viTri(P, s), l = ((k * 7) % 5 - 2) * 1.6; // lệch ngang ≤ 3 px (cố định, không random)
           // nhịp k ở o.t ≈ 1/60 + 0.1k; quái trúng khi đầu sóng ≤ s + 70 + 0.3×cỡ quái (≈ 85 px với quái thường)
           const tl = 1 / 60 + 0.1 * Math.max(0, Math.ceil((song * (1 - (s + 85) / P.len) - 1 / 60) / 0.1 - 1e-6));
-          m.giot.push({ x: x - Math.sin(g) * l, y: y + Math.cos(g) * l, tl });
+          const r = (k * 37 % 11) / 10; // 0..1 cố định theo giọt: thời gian rơi / độ cao / cỡ khác nhau → đọc thành mưa
+          m.giot.push({ x: x - Math.sin(g) * l, y: y + Math.cos(g) * l, tl, fall: 0.2 + 0.1 * r, cao: 170 + 70 * r, w: 30 + 8 * ((k * 5) % 3) / 2, nghieng: ((k * 3) % 5 - 2) * 0.05 });
         }
       }
-      // 1) cột nước + cầu nước bắn lên trời (0 → 0.12 s vươn, giữ, tắt dần tới 0.55 s)
-      const top = -30, Lc = (m.gy - top) * this.eo(tg / 0.12), aC = tg < 0.55 ? Math.min(1, (0.55 - tg) / 0.2) : 0;
-      if (aC > 0.01 && Lc > 4) {
-        this.k(ctx, 'fx_leviathan_tia', 0, m.gx, m.gy, Lc, { g: -Math.PI / 2, ax: 0, h: 20 * (0.8 + 0.2 * Math.sin(this.t * 40)), a: aC * 0.95, add: true });
-        if (tg < 0.18) this.k(ctx, 'fx_leviathan_dan', 0, m.gx, m.gy - Lc, 34, { g: -Math.PI / 2, ax: 0.75, a: 1 });
-        this.k(ctx, 'fx_leviathan_trung', 0, m.gx, m.gy, 40 * (0.8 + 0.3 * this.eo(tg / 0.2)), { a: aC * 0.7, add: true });
+      // 1) cầu nước bắn LÊN trời từ ngọc ụ: 5 quả lệch nhịp 0.05 s, mỗi quả bay 0.42 s từ ngọc tới quá mép trên (y = −40)
+      const NQ = gon ? 3 : 5, BAY = 0.42, D = m.gy + 40;
+      for (let i = 0; i < NQ; i++) {
+        const t0 = i * 0.05, u = (tg - t0) / BAY; if (u < 0 || u >= 1) continue;
+        const ben = (i % 2 ? 1 : -1) * (0.6 + 0.4 * ((i * 3) % 4) / 3) * (i === 0 ? 0 : 1); // quả đầu thẳng lên, các quả sau toả 2 bên
+        const v = u * (0.55 + 0.45 * u); // bật ra nhanh rồi vẫn vọt tiếp lên (không dừng giữa trời)
+        const x = m.gx + ben * (26 * u + 34 * u * u), y = m.gy - D * v;
+        const vx = ben * (26 + 68 * u), vy = -D * (0.55 + 0.9 * u), g = Math.atan2(vy, vx);
+        const w = 46 * (1 - 0.5 * u), a = Math.min(1, u * 8) * (1 - 0.55 * u);
+        this.k(ctx, 'fx_leviathan_dan', 0, x, y, w, { g, ax: 0.72, a });
       }
-      // 2) mưa giáo nước: rơi 0.24 s (nhanh dần) → chạm đường đúng tl → vương miện toé 0.32 s
-      const FALL = 0.24, CAO = 150;
+      if (tg < 0.3) { const v = tg / 0.3; this.k(ctx, 'fx_leviathan_trung', 0, m.gx, m.gy + 4, 40 * (0.7 + 0.5 * v), { ay: 0.78, a: 0.8 * (1 - v * v), add: true }); } // toé nhỏ ở ngọc lúc bắn
+      // 2) mưa giáo nước: rơi nhanh dần từ trên cao → chạm đường đúng tl → vương miện toé 0.32 s
       m.giot.forEach((d, i) => {
         if (gon && i % 2) return;
         if (m.tHet != null && d.tl > m.ot + 0.001) return; // ụ mất giữa chừng → không còn giọt mới
-        const t0 = Math.max(d.tl - FALL, Math.min(0.1, d.tl - 0.05));
+        const t0 = Math.max(d.tl - d.fall, Math.min(0.12, d.tl - 0.05)); // giọt sát lõi (tl sớm): rơi ngắn nhưng vẫn chạm đúng nhịp
         if (tg >= t0 && tg < d.tl) {
-          const u = (tg - t0) / (d.tl - t0), e = u * u;
-          this.k(ctx, 'fx_leviathan_dan', 0, d.x, d.y - CAO * (1 - e), 34, { g: Math.PI / 2, ax: 0.8, a: Math.min(1, u * 4) });
+          const u = (tg - t0) / (d.tl - t0), e = u * u, h = d.cao * (d.tl - t0) / d.fall * (1 - e);
+          this.k(ctx, 'fx_leviathan_dan', 0, d.x + Math.sin(d.nghieng) * h, d.y - h, d.w, { g: Math.PI / 2 - d.nghieng, ax: 0.8, a: Math.min(1, u * 5) });
         } else if (tg >= d.tl && tg < d.tl + 0.32) {
           const v = (tg - d.tl) / 0.32;
           this.k(ctx, 'fx_leviathan_trung', 0, d.x, d.y, 34 * (0.7 + 0.5 * v), { ay: 0.78, a: 1 - v * v });
@@ -501,7 +510,7 @@ SIG.RONG = {
   rong: { dau: 'wyrm_rong', luong: 'fx_wyrm_lua', loe: 'fx_ronglua_trung', vet: null, buoc: 38, doan: 70, h: 34, cua: false },
 };
 SIG.sanRong = (k) => {
-  if (k === 'tho') return ['fx_leviathan_tia', 'fx_leviathan_dan', 'fx_leviathan_trung'].every(n => !!REN.img(n)); // mưa nước (thiếu ảnh → HU.thoThuy gốc tự vẽ)
+  if (k === 'tho') return ['fx_leviathan_dan', 'fx_leviathan_trung'].every(n => !!REN.img(n)); // cầu nước lên trời + mưa nước (thiếu ảnh → HU.thoThuy gốc tự vẽ)
   const c = SIG.RONG[k]; return !!(REN.img(c.dau) && REN.img(c.luong));
 };
 

diff --git a/thap/js/skilldemo.js b/thap/js/skilldemo.js
@@ -176,7 +176,7 @@ const SD_K = {
     c: [[0.2, 'Neighbours resist control'], [1.6, 'The boss aims a skill…'], [3.0, 'The mirror blocks it', { cham: 0.6 }], [4.4, 'Rival casts a Clamp…'], [5.0, 'Mirror reflects it back', { cham: 0.7 }]] },
   marionette: { q: Q.hang(4, 190, 36, 14), truoc: (T) => { T.nap = 0.86; }, c: [[0.2, 'Takes control of an enemy'], [1.6, 'Walks it back, then boom', { cham: 0.5 }]], dai: 9 },
   chuato: { q: Q.hang(5, 200, 36, 8), cham: [4.6], truoc: (T) => { T.nap = 0.95; T.napDay = -99; T.de = 99; }, c: [[0.2, 'Breeds hunter drones'], [4.6, 'Tap: the swarm dives in', { cham: 0.7 }]], dai: 9 },
-  leviathan: { q: Q.nho().concat([{ k: 'khong_lo', s: 30, h: 30 }]), cham: [4.6], truoc: (T) => { T.nap = 0.95; T.napDay = -99; T.nuot = 99; }, c: [[0.2, 'Devours a small enemy'], [1.4, 'Whirlpool tag = ABYSS points'], [4.6, 'Tap: ice dragon breath', { cham: 0.7 }]], dai: 9 },
+  leviathan: { q: Q.nho().concat([{ k: 'khong_lo', s: 30, h: 30 }]), cham: [4.6], truoc: (T) => { T.nap = 0.95; T.napDay = -99; T.nuot = 99; }, c: [[0.2, 'Devours a small enemy'], [1.4, 'Whirlpool tag = ABYSS points'], [4.6, 'Tap: water orbs rain on the path', { cham: 0.7 }]], dai: 9 },
   khoisinh: { kieu: 'phu', cham: [4.6], truoc: (T) => { T.sinhT = SKILLS.khoisinh.g(T) - 1.4; T.nap = 0.95; T.napDay = -99; }, ke: [[6, 'lien', 1], [8, 'canon', 2], [2, 'set', 3]], c: [[0.2, 'Raises your lowest turret'], [1.4, 'Lowest turret gets +1★', { ev: 'sao', cham: 0.6 }], [4.6, 'Tap: summons new turrets', { cham: 0.6 }]], dai: 9 },
   ronglua: { q: Q.nhom(6, 190, 20, 12), cham: [4.6], truoc: (T) => { T.nap = 0.95; T.napDay = -99; }, c: [[0.2, 'Flame cone burns crowds'], [4.6, 'Tap: fire dragon breath', { cham: 0.7 }]], dai: 9 },
   mana: { kieu: 'phu', mana: 1, manaDau: 0, truoc: (T) => { T.nap = 0.8; }, c: [[0.2, 'Does not shoot'], [1.2, (T) => 'Makes mana every ' + SKILLS.mana.ky(T) + 's', { ev: 'mana', cham: 0.6 }]] },

diff --git a/thap/js/skills5.js b/thap/js/skills5.js
@@ -162,7 +162,7 @@ SKILLS.leviathan = {
   e: (T) => sao7r(T, [9, 8.5, 8, 7, 6, 5.5, 5]),
   cd: 35,
   // dòng bảng ụ: 'ABYSS 56 · +224% damage' (VI: '+224% sát thương') = đúng số trên tấm đếm xoáy vực ở đáy ô (demkn.js)
-  mo: (T) => 'ABYSS ' + (T.vuc || 0) + ' · +' + 4 * (T.vuc || 0) + '% damage · devours a small enemy every ' + SKILLS.leviathan.e(T) + 's (' + SKILLS.leviathan.TAM + ' px' + (T.sao >= 4 ? ', big ones ×3' : '') + (T.sao >= 7 ? ', flyers too' : '') + ') · bubble splash 30 px · ' + (T.sao >= 3 ? 'TAP when full: TIDAL BREATH ×' + (4 + 0.1 * (T.vuc || 0)).toFixed(1) + ' — an ice dragon breathes along the path' : 'TIDAL BREATH unlocks at 3★'),
+  mo: (T) => 'ABYSS ' + (T.vuc || 0) + ' · +' + 4 * (T.vuc || 0) + '% damage · devours a small enemy every ' + SKILLS.leviathan.e(T) + 's (' + SKILLS.leviathan.TAM + ' px' + (T.sao >= 4 ? ', big ones ×3' : '') + (T.sao >= 7 ? ', flyers too' : '') + ') · bubble splash 30 px · ' + (T.sao >= 3 ? 'TAP when full: TIDAL BREATH ×' + (4 + 0.1 * (T.vuc || 0)).toFixed(1) + ' — water orbs shoot up from the turret and rain down along the whole path' : 'TIDAL BREATH unlocks at 3★'),
   TAM: 160, // tầm nuốt 120 → 160 px: mọi ô hàng giữa với tới đường (BAO-CAO gioi-han §4 mục 7)
   // VỰC SÂU lưu THEO BÀN (B.vucSau): mọi Leviathan trên bàn cùng hưởng, giữ khi ghép (BAO-CAO §4 mục 6) — T.vuc = bản sao để vẽ/hiển thị
   sinh(G, T) { const B = G.ban && G.ban[T.ban]; T.vuc = (B && B.vucSau) || 0; T.nuot = 0; },

diff --git a/thap/js/text.js b/thap/js/text.js
@@ -140,7 +140,7 @@ const TEXT = {
     marionette:   { name: 'Marionette',     skill: 'Takes control of an enemy, walks it backward, then boom' },
     // đợt 3 — 4 ụ Đỏ (skills5.js)
     chuato:       { name: 'Hive Queen',     skill: 'Breeds hunter drones. Active (3★+): SWARM kamikaze' },
-    leviathan:    { name: 'Leviathan',      skill: 'Devours enemies for ABYSS points (shared by all your Leviathans) — whirlpool tag under the cell, +4% damage each (no cap). Active (3★+): TIDAL BREATH — an ice dragon head drops from the sky and breathes along the path' },
+    leviathan:    { name: 'Leviathan',      skill: 'Devours enemies for ABYSS points (shared by all your Leviathans) — whirlpool tag under the cell, +4% damage each (no cap). Active (3★+): TIDAL BREATH — water orbs shoot up from the turret and rain down along the whole path' },
     khoisinh:     { name: 'Genesis Core',   skill: 'Raises your lowest turret +1★ over time. Active (3★+): GENESIS summons turrets; Co-op: may raise your ally’s lowest turret instead' },
     // đợt vàng mới 1 (vangmoi1.js)
     lualien: { name: 'Ember Relay', skill: 'Merging a Relay gives +1 flame to every Relay in the same row and column (no cap, kept through merges); each flame +damage & crit' },

diff --git a/tools/thap-cat-wyrm2.py b/tools/thap-cat-wyrm2.py
@@ -27,14 +27,32 @@ fw, fh = int(cw), y1 - y0
 k = min(1.0, 2 * DAI / fw); nw, nh = round(fw * k), round(fh * k)
 strip = np.zeros((nh, nw * N, 4), np.uint8)
 for i, o in enumerate(os_): strip[:, i * nw:(i + 1) * nw] = thu(o[y0:y1, :fw], nw, nh)
+# 07/11 20:12 "cụt lửa": ảnh ChatGPT khung 3–5 chạm MÉP PHẢI ô → lửa bị chặt thẳng đứng. Mờ dần phần mũi (≈ 34% cuối) theo mép
+# răng cưa cố định (nhiễu mượt theo hàng, hàng xa trục tắt sớm hơn) → mũi lửa mềm tự nhiên, không còn mép cứng. Không random mỗi lần chạy.
+rng = np.random.default_rng(7); yc2 = (yc - y0) * nh / fh
+for i in range(N):
+    f = strip[:, i * nw:(i + 1) * nw].astype(np.float32); al = f[..., 3]
+    cc = np.where((al > 10).sum(0) > 2)[0]
+    if not len(cc): continue
+    xe = cc.max() + 1
+    nz = np.convolve(rng.random(nh + 60), np.ones(23) / 23, 'same')[30:30 + nh]; nz = (nz - nz.min()) / (np.ptp(nz) + 1e-6)
+    lech = np.abs(np.arange(nh) - yc2) / (nh / 2)
+    e = xe * (1 - 0.16 * nz - 0.06 * lech)  # mép tắt hẳn của từng hàng
+    F = 0.34 * xe
+    u = np.clip((e[:, None] - np.arange(nw)[None, :]) / F, 0, 1); m = u * u * (3 - 2 * u)
+    f[..., 3] = al * m
+    strip[:, i * nw:(i + 1) * nw] = np.clip(f, 0, 255).astype(np.uint8)
 Image.fromarray(strip, 'RGBA').save(os.path.join(ROOT, 'thap/assets/fx_wyrm_lua2.png'), optimize=True)
 # mũi lửa (cột xa nhất có lửa, khung đầy 3–5) = wyrm2X · bề cao phần có lửa ở 70% chiều dài lửa = wyrm2Y
 xs, hs = [], []
 for i in (3, 4, 5):
-    f = strip[:, i * nw:(i + 1) * nw, 3]; cc = np.where((f > 40).sum(0) > 2)[0]; xs.append((cc.max() + 1) / nw)
+    q = strip[:, i * nw:(i + 1) * nw].astype(np.float32); f = q[..., :3].max(-1) * q[..., 3] / 255 > 60  # cùng ngưỡng thap-kt-vfx-p0 (sáng × alpha)
+    xx = np.sort(np.where(f)[1]); xs.append(xx[int(len(xx) * 0.99)] / nw)
 X2 = float(np.mean(xs))
 for i in (3, 4, 5):
-    c = strip[:, i * nw + int(nw * 0.7 * X2), 3]; yy = np.where(c > 40)[0]; hs.append((yy.max() - yy.min() + 1) / nh if len(yy) else 0)
+    q = strip[:, i * nw:(i + 1) * nw].astype(np.float32); f = q[..., :3].max(-1) * q[..., 3] / 255 > 60
+    yy = np.sort(np.where(f[:, max(0, int(nw * (0.7 * X2 - 0.04))):int(nw * (0.7 * X2 + 0.04))])[0])
+    hs.append((yy[int(len(yy) * 0.98)] - yy[int(len(yy) * 0.02)]) / nh if len(yy) > 5 else 0)
 print('fx_wyrm_lua2', [N, nw, nh], 'trục y', yc - y0, '/', fh, 'wyrm2X', round(X2, 3), 'wyrm2Y', round(float(np.mean(hs)), 3))
 
 # dạng 2 (lửa XANH) / dạng 3 (lửa TRẮNG viền xanh) theo luật: đổi kênh đỏ ↔ lam của chính ảnh ChatGPT (cam → lam, vàng → lam-trắng,

diff --git a/GAMEPLAY.md b/GAMEPLAY.md
@@ -3361,3 +3361,10 @@ nguồn vẽ `tools/pixel/ve-lai/*.js` → `tools/pixel/src/<nhóm>/<mã>.txt`, 
 - Trả lại khung bậc ô lưới như trước 56baba3f (`o_vien_<bậc>` + hàng ngọc) cho lưới XÂY BỘ BÀI/BỘ SƯU TẬP, 5 ô bộ bài, khay trận, dải vào trận (`thap/js/otoigian.js`, `thap/css/otoigian.css`).
 - Bóng kéo / giữ tay (`thap/js/dkkeo.js`): thôi dùng `KHUNG.url` (Pass 9), dựng ô vuông 76×76 cùng khung ô lưới (`OT.gan` + `MAT.fit` chân dung); thiếu OT thì vẽ dự phòng như cũ. Bộ sưu tập giữ tay không hiện bóng (chỉ mở trang ụ) — không có khung cũ.
 - Ảnh 390×844 (DPR 3) trước/sau: `docs/demo-hop-tuong/tuvan/khung-the/giu-tay/` (so-sanh-giu-vang-do.jpg). Test: thap-kt-vuot-deck 24/24.
+
+## claude/demo-hop-tuong — Abyss: cầu nước bay LÊN rồi mưa khắp đường · lửa Wyrm Engine hết cụt (07/11 tối)
+- Người dùng 20:11: TIDAL BREATH "trông như tia bắn từ trên xuống" → muốn từ ụ bắn giọt/cầu nước LÊN trời (thấy bay khỏi ụ), rồi rơi xuống khắp đường. 20:12: lửa Wyrm Engine "cụt lửa".
+- Leviathan TIDAL BREATH (`thap/js/sigfx.js` SIG.K.tho): BỎ cột tia dọc `fx_leviathan_tia`. Pha 1 (0 → ~0,6 s): 5 cầu nước `fx_leviathan_dan` (3 khi EFFECTS gọn) lệch nhịp 0,05 s bắn từ ngọc ụ, quả đầu thẳng lên, các quả sau vòng nhẹ ra 2 bên, vọt quá mép trên; càng cao càng nhỏ + mờ; toé nhỏ ở ngọc lúc bắn. Pha 2: mưa giáo nước rơi tới các điểm đều dọc cả đường (~24 px/giọt); độ cao / thời gian rơi / cỡ / nghiêng lệch nhau cố định theo giọt (đọc thành mưa); chạm đất đúng nhịp HU.thoThuy (như cũ) → vương miện toé `fx_leviathan_trung`. Luật, thời điểm trừ máu và vùng cắt VXD giữ nguyên. Lưu ý: đầu sóng bắt đầu ở LÕI ngay o.t ≈ 0, nên các giọt sát lõi buộc phải chạm sớm (cùng lúc cầu đang bay lên); phần còn lại của đường rơi sau.
+- Chữ kỹ năng: bỏ "ice dragon / rồng băng" → "water orbs shoot up from the turret and rain down along the whole path" / "cầu nước bắn vọt lên trời từ ụ rồi đổ mưa xuống khắp đường đi" (text.js, skills5.js `mo`, skilldemo.js, vi.json → ngonngu-vi.js).
+- Wyrm Engine: nguyên nhân cụt = ảnh ChatGPT `raw_fx_wyrm_lua2.png` khung 3–5 chạm mép phải ô → lửa bị chặt thẳng đứng (không phải vùng cắt VXD; HU.nonLua không bị cắt). `tools/thap-cat-wyrm2.py` nay làm mờ dần ~34% cuối mỗi khung theo mép răng cưa cố định → mũi lửa mềm; đo lại mũi / bề ngang cùng ngưỡng thap-kt-vfx-p0 → VUNG_ANH.wyrm2X 0,801 / wyrm2Y 0,645 (mũi lửa vẫn = tầm). Cả 3 dạng (cam / xanh / trắng) sinh lại.
+- GIF: `docs/demo-hop-tuong/tuvan/vfx-ra-soat/TRUOC-SAU-abyss2.gif`, `TRUOC-SAU-wyrm2.gif`; ảnh trận `tran-390x844-abyss2.jpg`, `tran-844x390-abyss2.jpg`.
